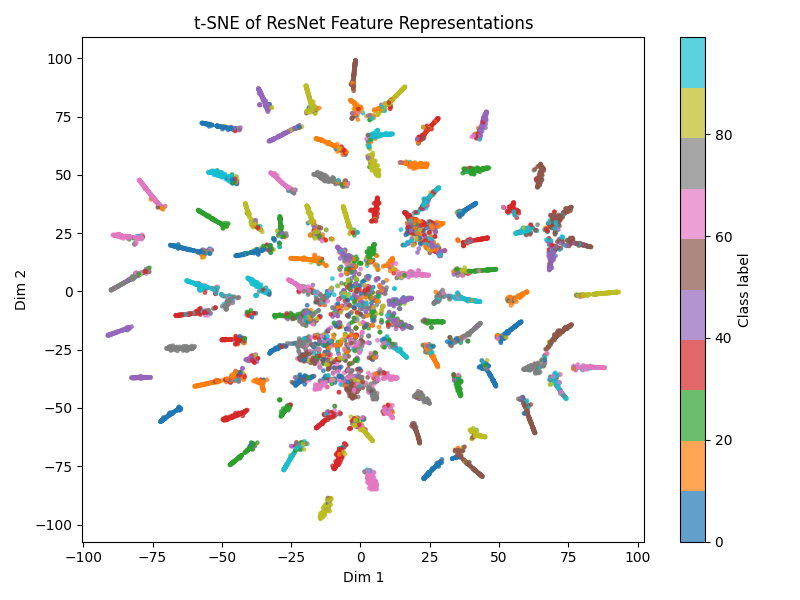
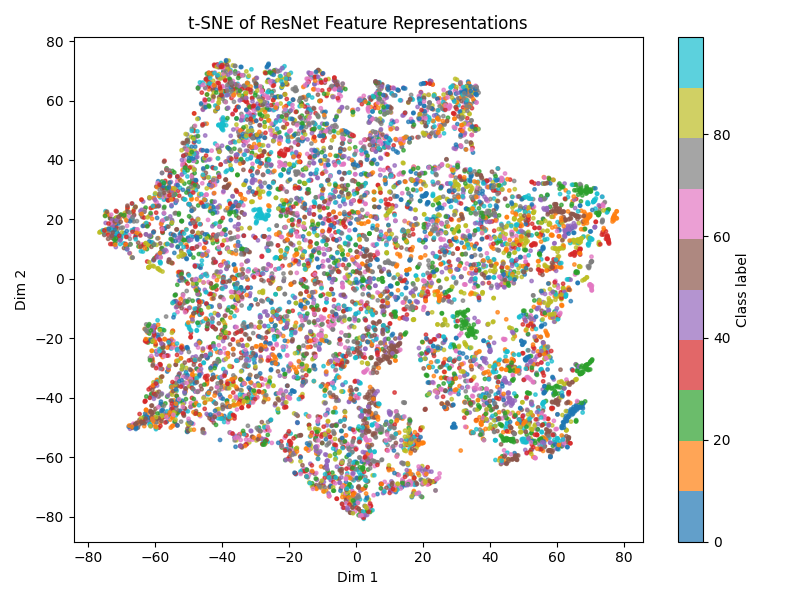
foma tSNE

diff --git a/train.py b/train.py
@@ -153,11 +153,11 @@ def main():
                 train_loss, train_acc = train(model, train_loader, criterion, optimizer, device, augment, num_classes, aug_ok=False, epochs=epoch)
                 val_loss, val_acc     = val(model, val_loader, criterion, device, augment, aug_ok=False)
 
-                train_feats = extract_wrn_features(model, train_loader.dataset, device)
-                feats_t = torch.from_numpy(train_feats).to(device)
-                avg_dist = compute_avg_knn_distance(feats_t, k=10)
-                distance_log.append((epoch+1, avg_dist))
-                print(f"  → Epoch {epoch+1}: Avg 10-NN dist = {avg_dist:.4f}")
+               # train_feats = extract_wrn_features(model, train_loader.dataset, device)
+               # feats_t = torch.from_numpy(train_feats).to(device)
+               # avg_dist = compute_avg_knn_distance(feats_t, k=10)
+               # distance_log.append((epoch+1, avg_dist))
+               # print(f"  → Epoch {epoch+1}: Avg 10-NN dist = {avg_dist:.4f}")
 
                 if score <= val_acc:
                     print("Save model parameters...")
@@ -174,7 +174,7 @@ def main():
             with open(f"./history/{model_type}/{augment}/{data_type}_{epochs}_{i}.pickle", "wb") as f:
                 pickle.dump(history, f)
             
-            save_distance_log(distance_log, f"./distance_log/{model_type}/{data_type}_{epochs}_{i}_knn_dist.pkl")
+            # save_distance_log(distance_log, f"./distance_log/{model_type}/{data_type}_{epochs}_{i}_knn_dist.pkl")
             
             ### TEST ###
             model.load_state_dict(torch.load(model_save_path, weights_only=True))

diff --git a/visualize_tsne.py b/visualize_tsne.py
@@ -29,7 +29,7 @@ augmentations = [
 ]
 
 for augment in augmentations:
-    model_save_path = f"./logs/{model_type}/{augment}/{data_type}_{epochs}_1.pth"
+    model_save_path = f"./logs/{model_type}/{augment}/{data_type}_{epochs}_0.pth"
 
     if data_type == "stl10":
         num_classes = 10
